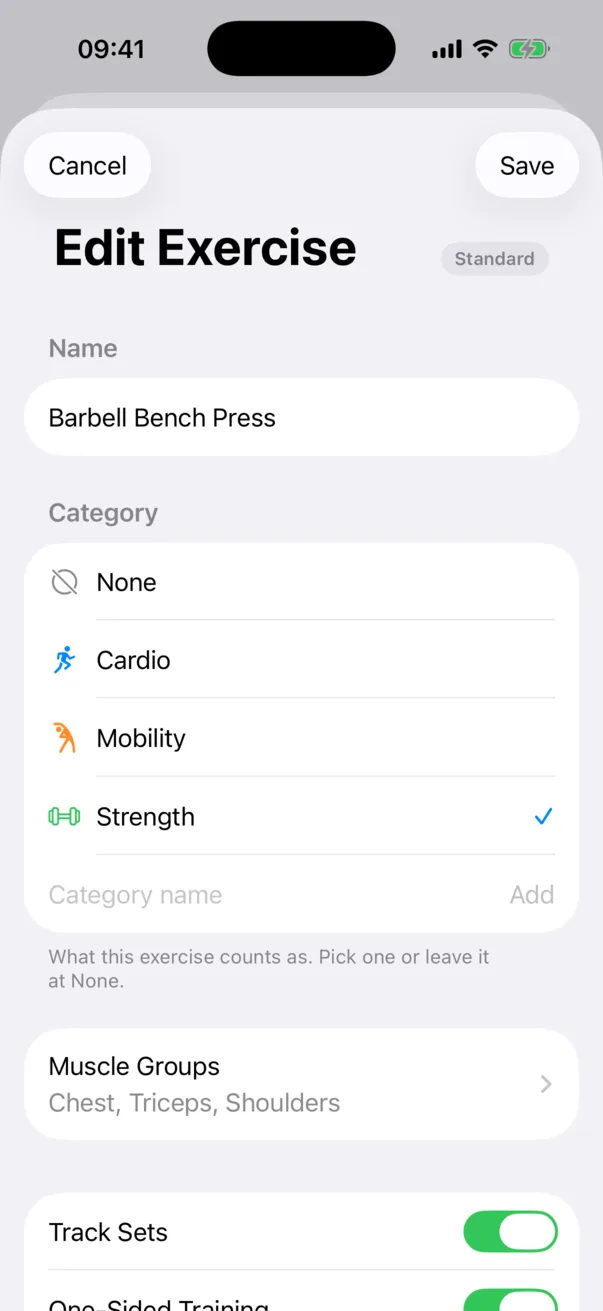
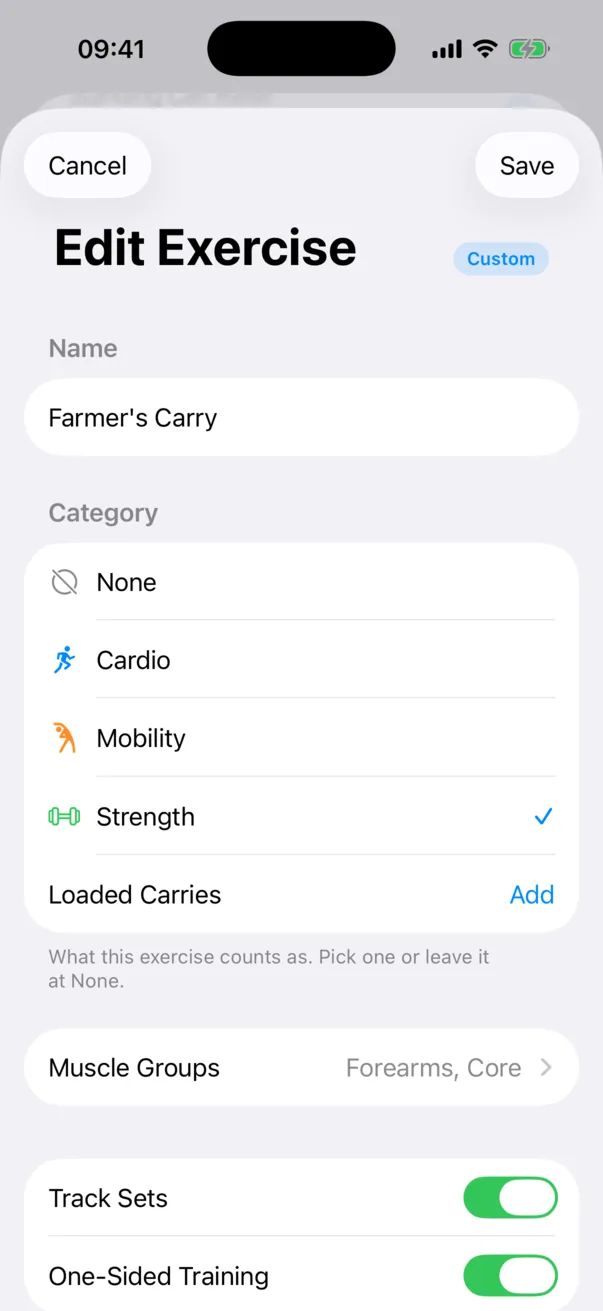
feature overview: reviewed images retaken
Seven screenshots taken again, one swapped for a sibling and the backup
save dialog back, this time from a simulator whose Files app holds only
the demo data.

diff --git a/features/index.html b/features/index.html
@@ -245,7 +245,7 @@
   <ul class="meta">
     <li>Version <strong>0.8.0</strong> · Build <strong>17</strong></li>
     <li>Stand <strong>5. Oktober 2026</strong> (feature-075)</li>
-    <li><strong>38</strong> Funktionen · <strong>89</strong> Bilder</li>
+    <li><strong>38</strong> Funktionen · <strong>90</strong> Bilder</li>
   </ul>
 </header>
 
@@ -279,7 +279,7 @@
   <summary><span class="sum-text"><span class="f-title">Aktivitätsgraph</span><span class="f-teaser">Zwölf Monate Training als Raster, ein Kästchen pro Tag.</span></span><span class="f-count">3 Bilder</span><span class="chev" aria-hidden="true"></span></summary>
   <div class="f-body">
     <div class="f-text"><p>Unter dem Titel zeigt ein Raster die letzten zwölf Monate. Jede Spalte ist eine Woche, jede Zeile ein Wochentag, heute ist umrandet. Je mehr Sätze an einem Tag, desto kräftiger das Grün.</p><p>In den Einstellungen unter „Overview“ lassen sich der Graph, die Beschriftung der Wochentage und eine Legende ein- und ausschalten.</p></div>
-    <div class="gallery" role="list"><figure class="shot"><button type="button" class="zoom" data-index="0" aria-label="Vergrößern: Der Graph über der Liste."><img src="img/start-historie.webp" width="603" height="1311" loading="lazy" alt="Der Graph über der Liste."></button><figcaption>Der Graph über der Liste.</figcaption></figure><figure class="shot"><button type="button" class="zoom" data-index="1" aria-label="Vergrößern: Mit „Show Legend“ erklärt eine Skala von Less bis More die Grüntöne."><img src="img/aktivitaet-legende.webp" width="603" height="1311" loading="lazy" alt="Mit „Show Legend“ erklärt eine Skala von Less bis More die Grüntöne."></button><figcaption>Mit „Show Legend“ erklärt eine Skala von Less bis More die Grüntöne.</figcaption></figure><figure class="shot"><button type="button" class="zoom" data-index="2" aria-label="Vergrößern: Die Schalter dazu stehen in den Einstellungen unter „Overview“."><img src="img/settings-oben.webp" width="603" height="1311" loading="lazy" alt="Die Schalter dazu stehen in den Einstellungen unter „Overview“."></button><figcaption>Die Schalter dazu stehen in den Einstellungen unter „Overview“.</figcaption></figure></div>
+    <div class="gallery" role="list"><figure class="shot"><button type="button" class="zoom" data-index="0" aria-label="Vergrößern: Der Graph über der Liste."><img src="img/start-mit-heute.webp" width="603" height="1311" loading="lazy" alt="Der Graph über der Liste."></button><figcaption>Der Graph über der Liste.</figcaption></figure><figure class="shot"><button type="button" class="zoom" data-index="1" aria-label="Vergrößern: Mit „Show Legend“ erklärt eine Skala von Less bis More die Grüntöne."><img src="img/aktivitaet-legende.webp" width="603" height="1311" loading="lazy" alt="Mit „Show Legend“ erklärt eine Skala von Less bis More die Grüntöne."></button><figcaption>Mit „Show Legend“ erklärt eine Skala von Less bis More die Grüntöne.</figcaption></figure><figure class="shot"><button type="button" class="zoom" data-index="2" aria-label="Vergrößern: Die Schalter dazu stehen in den Einstellungen unter „Overview“."><img src="img/settings-oben.webp" width="603" height="1311" loading="lazy" alt="Die Schalter dazu stehen in den Einstellungen unter „Overview“."></button><figcaption>Die Schalter dazu stehen in den Einstellungen unter „Overview“.</figcaption></figure></div>
   </div>
 </details>
 <details class="feature" id="zeitraum">
@@ -402,7 +402,7 @@
   <summary><span class="sum-text"><span class="f-title">Supersätze</span><span class="f-teaser">Zwei Übungen im Wechsel: A1, B1, A2, B2 …</span></span><span class="f-count">4 Bilder</span><span class="chev" aria-hidden="true"></span></summary>
   <div class="f-body">
     <div class="f-text"><p>Ein Supersatz verbindet zwei Übungen, die abwechselnd trainiert werden. „Add Exercise“ und dann „Superset“ wählt beide nacheinander, die erste wird A, die zweite B. In der Karte stehen die Sätze in der Reihenfolge, in der sie gemacht wurden, die von B farbig hinterlegt. „Add A“ und „Add B“ loggen den nächsten Satz, Ziehen verschiebt einen.</p><p>Zwei getrennt geloggte Übungen lassen sich nachträglich verbinden: langes Drücken auf eine davon und „Convert to Superset…“. Detailseite und PDF-Bericht zeigen das Paar als einen Block. Jede der beiden behält ihren Modus und ihre Historie; Links/Rechts-Logging gibt es im Supersatz nicht.</p></div>
-    <div class="gallery" role="list"><figure class="shot"><button type="button" class="zoom" data-index="0" aria-label="Vergrößern: Auswahl der zweiten Übung, unten beide Picks und „Create“."><img src="img/supersatz-auswahl.webp" width="603" height="1311" loading="lazy" alt="Auswahl der zweiten Übung, unten beide Picks und „Create“."></button><figcaption>Auswahl der zweiten Übung, unten beide Picks und „Create“.</figcaption></figure><figure class="shot"><button type="button" class="zoom" data-index="1" aria-label="Vergrößern: Die Supersatz-Karte mit „Add A“ und „Add B“."><img src="img/supersatz-karte.webp" width="603" height="1311" loading="lazy" alt="Die Supersatz-Karte mit „Add A“ und „Add B“."></button><figcaption>Die Supersatz-Karte mit „Add A“ und „Add B“.</figcaption></figure><figure class="shot"><button type="button" class="zoom" data-index="2" aria-label="Vergrößern: Eine bestehende Übung mit einer anderen verbinden."><img src="img/in-supersatz-umwandeln.webp" width="603" height="1311" loading="lazy" alt="Eine bestehende Übung mit einer anderen verbinden."></button><figcaption>Eine bestehende Übung mit einer anderen verbinden.</figcaption></figure><figure class="shot"><button type="button" class="zoom" data-index="3" aria-label="Vergrößern: Auf der Detailseite: ein Block, die Sätze im Wechsel."><img src="img/workout-detail-supersatz.webp" width="603" height="1311" loading="lazy" alt="Auf der Detailseite: ein Block, die Sätze im Wechsel."></button><figcaption>Auf der Detailseite: ein Block, die Sätze im Wechsel.</figcaption></figure></div>
+    <div class="gallery" role="list"><figure class="shot"><button type="button" class="zoom" data-index="0" aria-label="Vergrößern: Beide Übungen gewählt, A und B, unten „Create“."><img src="img/supersatz-auswahl.webp" width="603" height="1311" loading="lazy" alt="Beide Übungen gewählt, A und B, unten „Create“."></button><figcaption>Beide Übungen gewählt, A und B, unten „Create“.</figcaption></figure><figure class="shot"><button type="button" class="zoom" data-index="1" aria-label="Vergrößern: Die Supersatz-Karte mit „Add A“ und „Add B“."><img src="img/supersatz-karte.webp" width="603" height="1311" loading="lazy" alt="Die Supersatz-Karte mit „Add A“ und „Add B“."></button><figcaption>Die Supersatz-Karte mit „Add A“ und „Add B“.</figcaption></figure><figure class="shot"><button type="button" class="zoom" data-index="2" aria-label="Vergrößern: Eine bestehende Übung mit einer anderen verbinden."><img src="img/in-supersatz-umwandeln.webp" width="603" height="1311" loading="lazy" alt="Eine bestehende Übung mit einer anderen verbinden."></button><figcaption>Eine bestehende Übung mit einer anderen verbinden.</figcaption></figure><figure class="shot"><button type="button" class="zoom" data-index="3" aria-label="Vergrößern: Auf der Detailseite: ein Block, die Sätze im Wechsel."><img src="img/workout-detail-supersatz.webp" width="603" height="1311" loading="lazy" alt="Auf der Detailseite: ein Block, die Sätze im Wechsel."></button><figcaption>Auf der Detailseite: ein Block, die Sätze im Wechsel.</figcaption></figure></div>
   </div>
 </details>
 <details class="feature" id="eigene-felder-erfassen">
@@ -473,7 +473,7 @@
   <summary><span class="sum-text"><span class="f-title">Kategorien</span><span class="f-teaser">Strength, Cardio, Mobility oder eigene.</span></span><span class="f-count">1 Bild</span><span class="chev" aria-hidden="true"></span></summary>
   <div class="f-body">
     <div class="f-text"><p>Jede Übung kann einer Kategorie angehören: Strength, Cardio, Mobility oder einer eigenen, die über „New Category…“ direkt im Editor entsteht. Die Kategorie erscheint als farbiges Abzeichen in der Liste. Ob eine Übung einseitiges Training anbietet, richtet sich zunächst nach ihr und lässt sich pro Übung ändern.</p></div>
-    <div class="gallery" role="list"><figure class="shot"><button type="button" class="zoom" data-index="0" aria-label="Vergrößern: Eine neue Kategorie anlegen."><img src="img/neue-kategorie.webp" width="603" height="1311" loading="lazy" alt="Eine neue Kategorie anlegen."></button><figcaption>Eine neue Kategorie anlegen.</figcaption></figure></div>
+    <div class="gallery" role="list"><figure class="shot"><button type="button" class="zoom" data-index="0" aria-label="Vergrößern: Eine neue Kategorie „Loaded Carries“ anlegen."><img src="img/neue-kategorie.webp" width="603" height="1311" loading="lazy" alt="Eine neue Kategorie „Loaded Carries“ anlegen."></button><figcaption>Eine neue Kategorie „Loaded Carries“ anlegen.</figcaption></figure></div>
   </div>
 </details>
 <details class="feature" id="muskelgruppen">
@@ -494,7 +494,7 @@
   <summary><span class="sum-text"><span class="f-title">Zwei Übungen zusammenführen</span><span class="f-teaser">Für zwei Namen, die dieselbe Übung meinen.</span></span><span class="f-count">3 Bilder</span><span class="chev" aria-hidden="true"></span></summary>
   <div class="f-body">
     <div class="f-text"><p>„Merge Two Exercises…“ steht unten in der Übungsliste. Die erste Übung verschwindet, alles mit ihr Geloggte wandert zur zweiten, die ihren Namen, ihre Kategorie und ihre Muskelgruppen behält. Für jedes Feld der ersten Übung wird festgelegt, welchem Feld der zweiten es entspricht oder ob es als neues Feld mitkommt. Vor dem Zusammenführen fragt die App noch einmal.</p><div class="steps"><h4>So geht’s</h4><ol><li>„Merge Two Exercises…“ tippen.</li><li>Unter „Merge“ die Übung wählen, die verschwindet, unter „Into“ die, die bleibt.</li><li>Felder zuordnen, „Merge“ und bestätigen.</li></ol></div></div>
-    <div class="gallery" role="list"><figure class="shot"><button type="button" class="zoom" data-index="0" aria-label="Vergrößern: Das leere Formular."><img src="img/zusammenfuehren-leer.webp" width="603" height="1311" loading="lazy" alt="Das leere Formular."></button><figcaption>Das leere Formular.</figcaption></figure><figure class="shot"><button type="button" class="zoom" data-index="1" aria-label="Vergrößern: Cable Fly geht in Pec Deck auf, die Felder sind zugeordnet."><img src="img/zusammenfuehren-gewaehlt.webp" width="603" height="1311" loading="lazy" alt="Cable Fly geht in Pec Deck auf, die Felder sind zugeordnet."></button><figcaption>Cable Fly geht in Pec Deck auf, die Felder sind zugeordnet.</figcaption></figure><figure class="shot"><button type="button" class="zoom" data-index="2" aria-label="Vergrößern: Die letzte Rückfrage."><img src="img/zusammenfuehren-bestaetigen.webp" width="603" height="1311" loading="lazy" alt="Die letzte Rückfrage."></button><figcaption>Die letzte Rückfrage.</figcaption></figure></div>
+    <div class="gallery" role="list"><figure class="shot"><button type="button" class="zoom" data-index="0" aria-label="Vergrößern: Das leere Formular."><img src="img/zusammenfuehren-leer.webp" width="603" height="1311" loading="lazy" alt="Das leere Formular."></button><figcaption>Das leere Formular.</figcaption></figure><figure class="shot"><button type="button" class="zoom" data-index="1" aria-label="Vergrößern: Flat Bench Press geht in Barbell Bench Press auf, die Felder sind zugeordnet."><img src="img/zusammenfuehren-gewaehlt.webp" width="603" height="1311" loading="lazy" alt="Flat Bench Press geht in Barbell Bench Press auf, die Felder sind zugeordnet."></button><figcaption>Flat Bench Press geht in Barbell Bench Press auf, die Felder sind zugeordnet.</figcaption></figure><figure class="shot"><button type="button" class="zoom" data-index="2" aria-label="Vergrößern: Die letzte Rückfrage: Das eine geloggte Workout zieht mit um."><img src="img/zusammenfuehren-bestaetigen.webp" width="603" height="1311" loading="lazy" alt="Die letzte Rückfrage: Das eine geloggte Workout zieht mit um."></button><figcaption>Die letzte Rückfrage: Das eine geloggte Workout zieht mit um.</figcaption></figure></div>
   </div>
 </details>
 <details class="feature" id="liste-importieren">
@@ -509,10 +509,10 @@
   <header class="g-head"><h2 id="h-backup">Backup</h2><p>Alles bleibt auf dem Gerät. Ein Backup ist eine JSON-Datei, die man selbst sichert und wieder einliest.</p></header>
   <div class="features">
 <details class="feature" id="export">
-  <summary><span class="sum-text"><span class="f-title">Backup exportieren</span><span class="f-teaser">Übungen und Workouts in eine Datei.</span></span><span class="f-count">3 Bilder</span><span class="chev" aria-hidden="true"></span></summary>
+  <summary><span class="sum-text"><span class="f-title">Backup exportieren</span><span class="f-teaser">Übungen und Workouts in eine Datei.</span></span><span class="f-count">4 Bilder</span><span class="chev" aria-hidden="true"></span></summary>
   <div class="f-body">
     <div class="f-text"><p>Das Menü „Backup“ oben links, dann „Export Backup“. Alles, was eingeschaltet bleibt, landet in einer Datei. Wer etwa nur die Übungsliste weitergeben will, schaltet „Workouts“ aus. Gesichert wird über den Dialog von iOS, zum Beispiel in der Dateien-App.</p></div>
-    <div class="gallery" role="list"><figure class="shot"><button type="button" class="zoom" data-index="0" aria-label="Vergrößern: Das Menü „Backup“ auf der Startseite."><img src="img/backup-menu.webp" width="603" height="1311" loading="lazy" alt="Das Menü „Backup“ auf der Startseite."></button><figcaption>Das Menü „Backup“ auf der Startseite.</figcaption></figure><figure class="shot"><button type="button" class="zoom" data-index="1" aria-label="Vergrößern: Übungen und Workouts, beide eingeschaltet."><img src="img/backup-export.webp" width="603" height="1311" loading="lazy" alt="Übungen und Workouts, beide eingeschaltet."></button><figcaption>Übungen und Workouts, beide eingeschaltet.</figcaption></figure><figure class="shot"><button type="button" class="zoom" data-index="2" aria-label="Vergrößern: Nur die Übungsliste exportieren."><img src="img/backup-export-nur-uebungen.webp" width="603" height="1311" loading="lazy" alt="Nur die Übungsliste exportieren."></button><figcaption>Nur die Übungsliste exportieren.</figcaption></figure></div>
+    <div class="gallery" role="list"><figure class="shot"><button type="button" class="zoom" data-index="0" aria-label="Vergrößern: Das Menü „Backup“ auf der Startseite."><img src="img/backup-menu.webp" width="603" height="1311" loading="lazy" alt="Das Menü „Backup“ auf der Startseite."></button><figcaption>Das Menü „Backup“ auf der Startseite.</figcaption></figure><figure class="shot"><button type="button" class="zoom" data-index="1" aria-label="Vergrößern: Übungen und Workouts, beide eingeschaltet."><img src="img/backup-export.webp" width="603" height="1311" loading="lazy" alt="Übungen und Workouts, beide eingeschaltet."></button><figcaption>Übungen und Workouts, beide eingeschaltet.</figcaption></figure><figure class="shot"><button type="button" class="zoom" data-index="2" aria-label="Vergrößern: Nur die Übungsliste exportieren."><img src="img/backup-export-nur-uebungen.webp" width="603" height="1311" loading="lazy" alt="Nur die Übungsliste exportieren."></button><figcaption>Nur die Übungsliste exportieren.</figcaption></figure><figure class="shot"><button type="button" class="zoom" data-index="3" aria-label="Vergrößern: Sichern in „On My iPhone“."><img src="img/backup-export-speichern.webp" width="603" height="1311" loading="lazy" alt="Sichern in „On My iPhone“."></button><figcaption>Sichern in „On My iPhone“.</figcaption></figure></div>
   </div>
 </details>
 <details class="feature" id="import">
